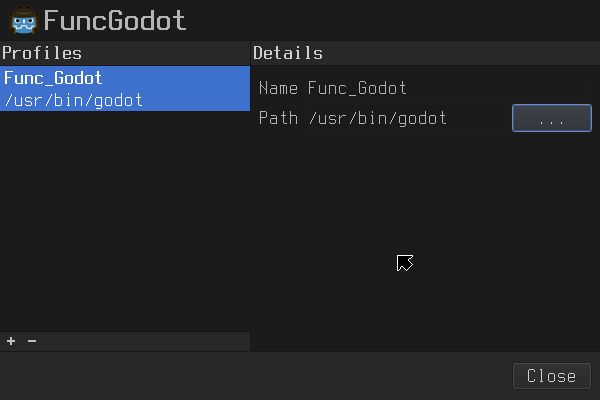
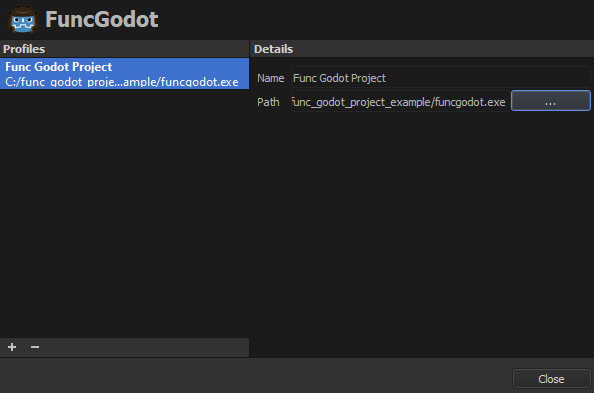
Screenshots changed + some slight wording adjustments

diff --git a/FuncGodot Manual/pages/tips_runtime_building.html b/FuncGodot Manual/pages/tips_runtime_building.html
@@ -75,7 +75,7 @@ for cmd_line_arg in cmd_line_args:
         func_godot_map.local_map_file = map_override
         func_godot_map.verify_and_build()</code></pre>
     <h2>Setting Up Your Editor</h2>
-    <p>In the below guides, there will be references made to executables. This is up to the user, however you can use the Godot executable to run your game straight from the editor, or you could use exported binaries of your game. On Windows, your Godot Binary path is where you keep your Godot.exe file. On most Linux systems this is found under <code>/usr/bin/godot</code></p>
+    <p>In the below guides, there will be references made to executables. This is up to the user, however you can use the Godot executable to run your game straight from the editor, or you could use exported binaries of your game. On Windows, your Godot Binary path is where you keep your Godot.exe file. On most Linux systems this is found under <code>/usr/bin/godot</code>. An example executable path and parameters for running a game in the editor: <code class="highlight">C:/GAMEDEV/Godot.exe --path C:/func_godot_project_example/ -- launch_debug::${MAP_BASE_NAME}.map</code>. Note that <code class="highlight">--path</code> is to the directory where project.godot resides. See the full list of Godot engine <a href="https://docs.godotengine.org/en/stable/tutorials/editor/command_line_tutorial.html" target="_blank">Command Line Interface options</a>.</p>
     <h3>TrenchBroom</h3>
     <p>
         The TrenchBroom documenation <a href="https://trenchbroom.github.io/manual/latest/#launching_game_engines">covers this generally</a>.<br>
@@ -84,9 +84,9 @@ for cmd_line_arg in cmd_line_args:
         <p align="center"><img src="../images/tips_editorbuild_trenchbroom1.png"><br></p>
         Go to <code class="highlight">Configure engines...</code>, add a game engine profile, and provide a name and path to the executable for this.
         <p align="center"><img src="../images/tips_editorbuild_trenchbroom2.png"><br></p>
-        Once you're happy with your engine configuration, click close. You will now see this as an option you can select. Select it. For this example I have used the regular godot executable.
+        Once you're happy with your engine configuration, click close. You will now see this as an option you can select. Select it. For this example I have used an exported executable.
         <p align="center"><img src="../images/tips_editorbuild_trenchbroom3.png"><br></p>
-        We then define the path to our godot project as <code class="highlight">--path C:/GAMEDEV/FuncGodot/</code>. This is the folder where your project.godot resides. We then mark user-made options with <code class="highlight">--</code>. In here, we use our <code class="highlight">launch_debug::</code> parameter, using the built in TrenchBroom variable <code class="highlight">${MAP_BASE_NAME}</code>. We follow this with <code class="highlight">.map</code> as this name is without the file extension . See the full list of Godot engine <a href="https://docs.godotengine.org/en/stable/tutorials/editor/command_line_tutorial.html" target="_blank">Command Line Interface options</a>.
+        We then mark user-made options with <code class="highlight">--</code>. In here, we use our <code class="highlight">launch_debug::</code> parameter, using the built in TrenchBroom variables <code class="highlight">${GAME_DIR_PATH}</code> and <code class="highlight">${MAP_BASE_NAME}</code>. We follow this with <code class="highlight">.map</code> as this name is without the file extension.
     </p>
 
     <h3>NetRadiant Custom</h3>
@@ -120,12 +120,7 @@ for cmd_line_arg in cmd_line_args:
 &ltcommand>[game] -- launch_debug::"[MapFile]"&lt/command>
 &lt/build></code></pre>
 
-        Restart NetRadiant, and you should see a new option in the build menu.
-        <p align="center"><img src="../images/tips_editorbuild_radiant2.png"><br></p>
-
-        <p align="center"><img src="../images/tips_editorbuild_radiant3.png"><br></p>
-
-        Selecting your new option will run the executable you defined above!
+        Restart NetRadiant, and you should see a new option in the build menu. Selecting your new option will run the executable you defined above!
     </p>
 </div>
 <br><br><br>
